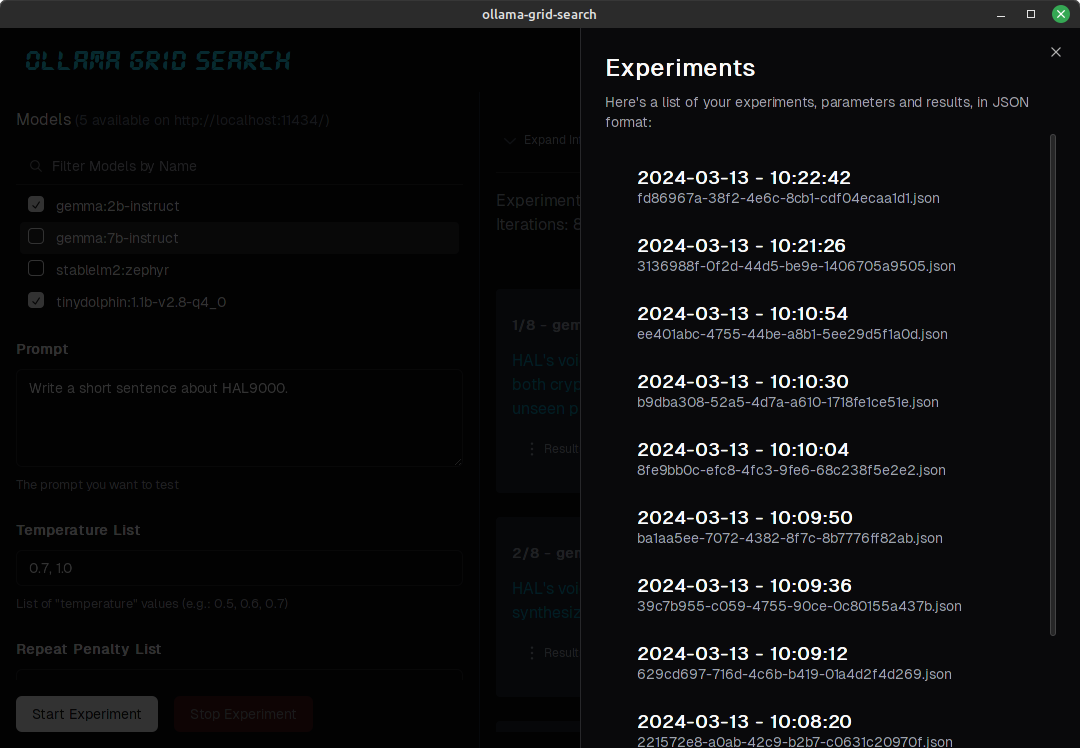
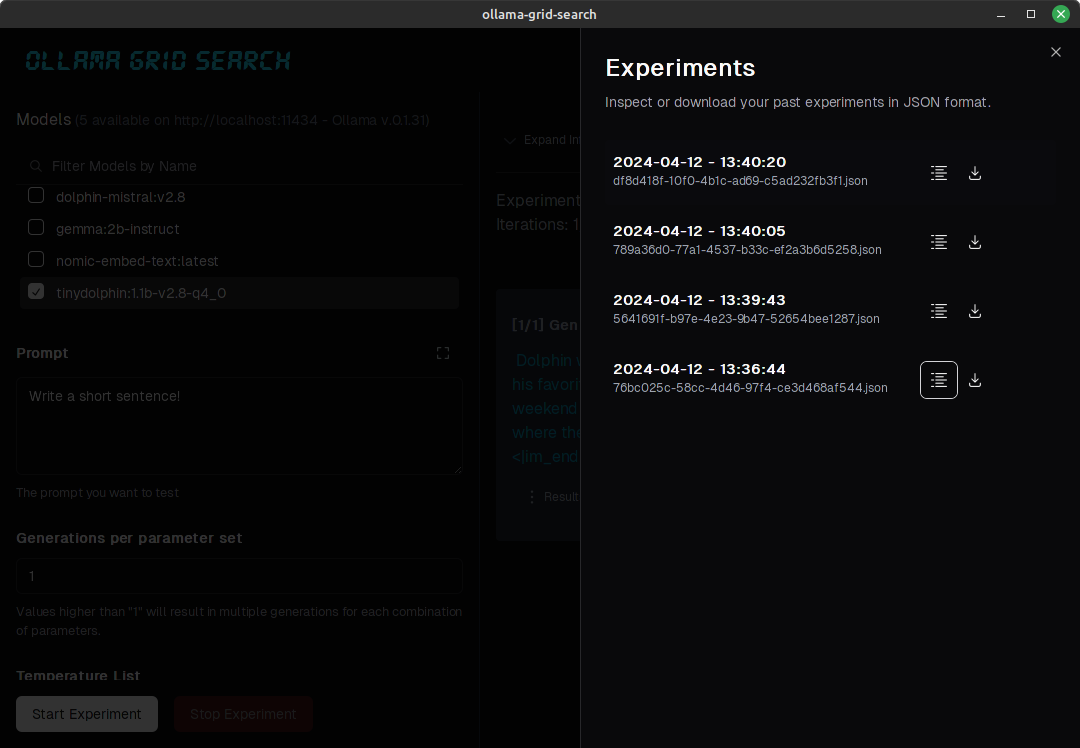
Updates README

diff --git a/README.md b/README.md
@@ -69,7 +69,7 @@ Similarly, you can perform A/B tests by selecting different models and compare r
 
 ## Experiment Logs
 
-You can list your experiments and download the corresponding logs in JSON:
+You can list, inspect, or download your experiments:
 
 [<img src="./screenshots/experiments.png?raw=true" alt="Settings" width="720">](./screenshots/experiments.png?raw=true)
 
